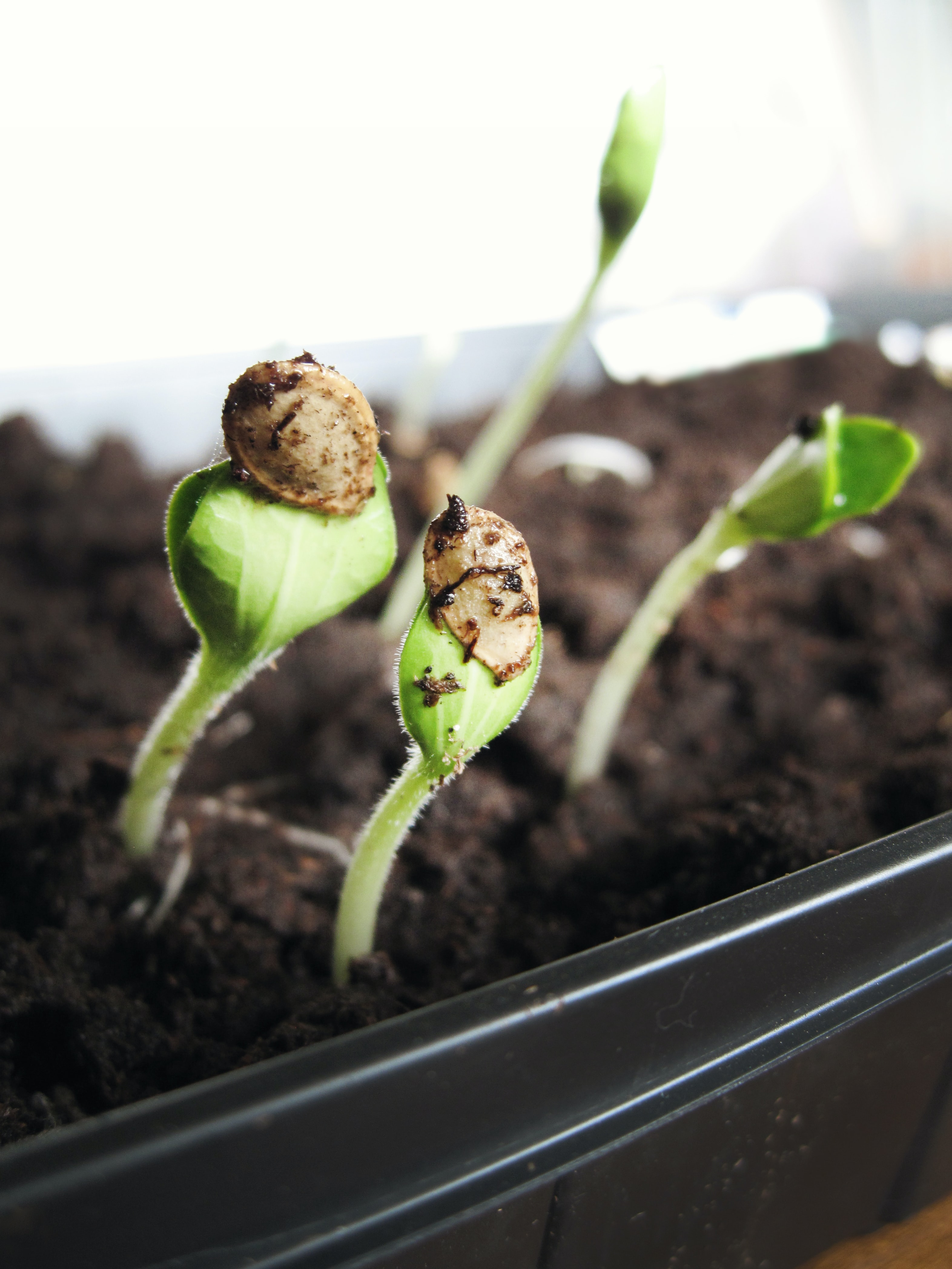
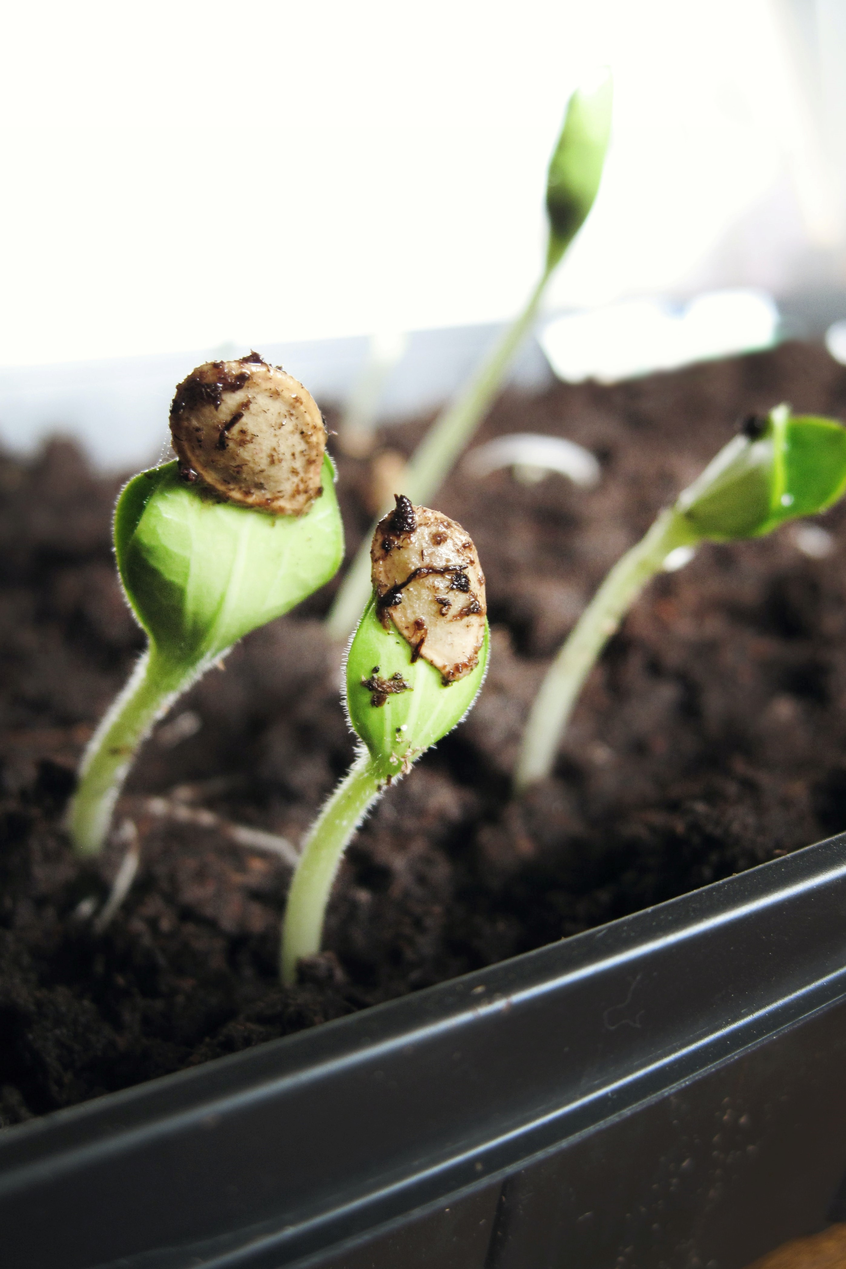
correccion relacion de aspecto imagenes

diff --git a/index.html b/index.html
@@ -301,7 +301,7 @@
         class="row mt-5 mb-5 wp-5 container-fluid d-flex justify-content-center"
       >
         <div class="card m-2 p-1 col-sm" style="width: 18rem">
-          <img src="img/c1.jpg" class="card-img-top" alt="..." />
+          <img src="img/c1.jpg" class="card-img-top" alt="Parafernalia" />
           <div class="card-body">
             <a class="text-decoration-none" href="pages/paraferlia.html"
               ><h5 class="card-title text-center text-dark">Parafernalia</h5></a
@@ -309,7 +309,7 @@
           </div>
         </div>
         <div class="card m-2 p-1 col-sm" style="width: 18rem">
-          <img src="img/c2.jpg" class="card-img-top" alt="..." />
+          <img src="img/c2.jpg" class="card-img-top" alt="Iluminacion" />
           <div class="card-body">
             <a class="text-decoration-none" href="pages/Insumos.html"
               ><h5 class="card-title text-center text-dark">Iluminacion</h5></a
@@ -317,7 +317,7 @@
           </div>
         </div>
         <div class="card m-2 p-1 col-sm" style="width: 18rem">
-          <img src="img/c4.jpg" class="card-img-top" alt="..." />
+          <img src="img/c4.jpg" class="card-img-top" alt="Indumentaria" />
           <div class="card-body">
             <a class="text-decoration-none" href="pages/Insumos.html"
               ><h5 class="card-title text-center text-dark">
@@ -327,7 +327,7 @@
           </div>
         </div>
         <div class="card m-2 p-1 col-sm" style="width: 18rem">
-          <img src="img/c3.jpg" class="card-img-top" height="100%" alt="..." />
+          <img src="img/c3.jpg" class="card-img-top" alt="semillas" />
           <div class="card-body">
             <a class="text-decoration-none" href="pages/Insumos.html"
               ><h5 class="card-title text-center text-dark">
